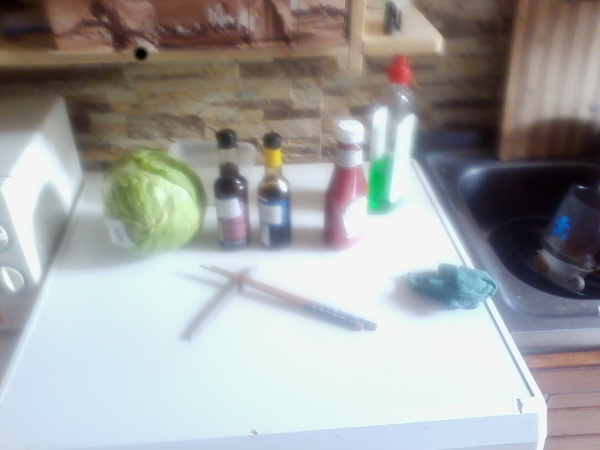
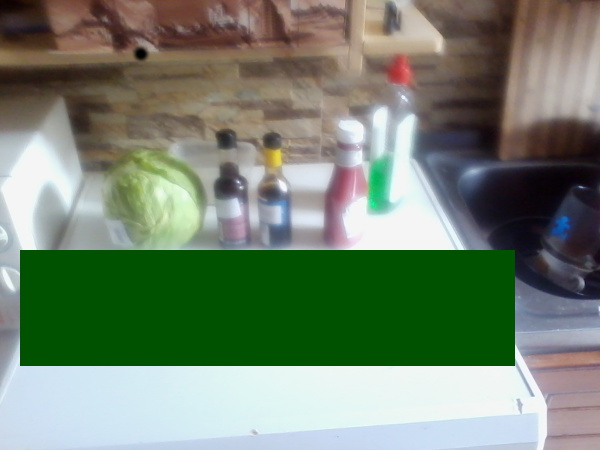
eat level complete, broken main controller

Changed region(s): [[0.03, 0.5289, 0.87, 0.84]]

diff --git a/public/views/level001/eat/lookinkitchen.html b/public/views/level001/eat/lookinkitchen.html
@@ -1,13 +1,13 @@
 <div class="canvas-element" ng-controller="eatsomefoodController">
   <!-- FORM -->
-  <form>
+  <form ng-submit="submitForm()" >
     <!-- NAME -->
 
 
     <!-- SUPERHERO NAME -->
+      <h1 class="question">What is the name of the national dish this recipee approximates.</h1>
     <div id="superhero-group" class="form-group">
-      <label>What is approximation of a national dish called.</label>
-      <input ng-model="formData.name" type="text" name="superheroAlias" class="form-control" placeholder="Caped Crusader">
+      <input  type="text" name="superheroAlias" class="form-control" placeholder="answer goes here" ng-model="formData.name">
       <span class="help-block"></span>
     </div>
 
@@ -16,5 +16,9 @@
       <span class="glyphicon glyphicon-flash"></span> Submit!
     </button>
   </form>
-  <pre>{{formData}}
+  <pre>{{formData}}</pre>
+
+  <div class="prize">
+    you win chopsticks and a file
+  </div>
 </div>

diff --git a/public/js/controllers/level001/level001Controller.js b/public/js/controllers/level001/level001Controller.js
@@ -10,7 +10,20 @@ angular.module('watchsometvController', []).controller('watchsometvController', 
 
 angular.module('eatsomefoodController', []).controller('eatsomefoodController', function($scope) {
    
-    $scope.formData = 'dfsf';
+    $scope.formData = {};
+
+    $scope.submitForm = function() {
+      if($scope.formData.name == 'pizza' || $scope.formData.name == 'okonomiyaki') {
+
+          // alert('correct');
+          $('.prize').show();
+      } else {
+        alert('nope')
+      }
+        // var trouble = $scope.formData;
+        // if($scope.fromData == $scope.formData) {
+        // }
+    };
 });
 
 

diff --git a/public/index.html b/public/index.html
@@ -14,7 +14,8 @@
 	<link rel="stylesheet" href="css/style.css"><!-- load bootstrap -->
 	<link rel="stylesheet" href="css/font-awesome-4.1.0/css/font-awesome.min.css">
 
-	<!-- SPELLS -->
+  <!-- SPELLS -->
+  <script src="//code.jquery.com/jquery-1.11.0.min.js"></script>
 	<script src="libs/angular.min.js"></script><!-- load angular -->
   <script src="libs/angular-ui-router.min.js"></script>
 

diff --git a/public/css/style.css b/public/css/style.css
@@ -85,6 +85,17 @@ a {color:gold;}
   width:600px;
   height:450px;
   background:url('../images/views/level001.eat.jpg');
+  position:relative;
 }
 
+.prize{
+
+width:495px;
+height:119px;
+background:url('../images/views/level001.prize.jpg');
+position:absolute;
+top:249px;
+left:19px;
+display: none;
+}
 
